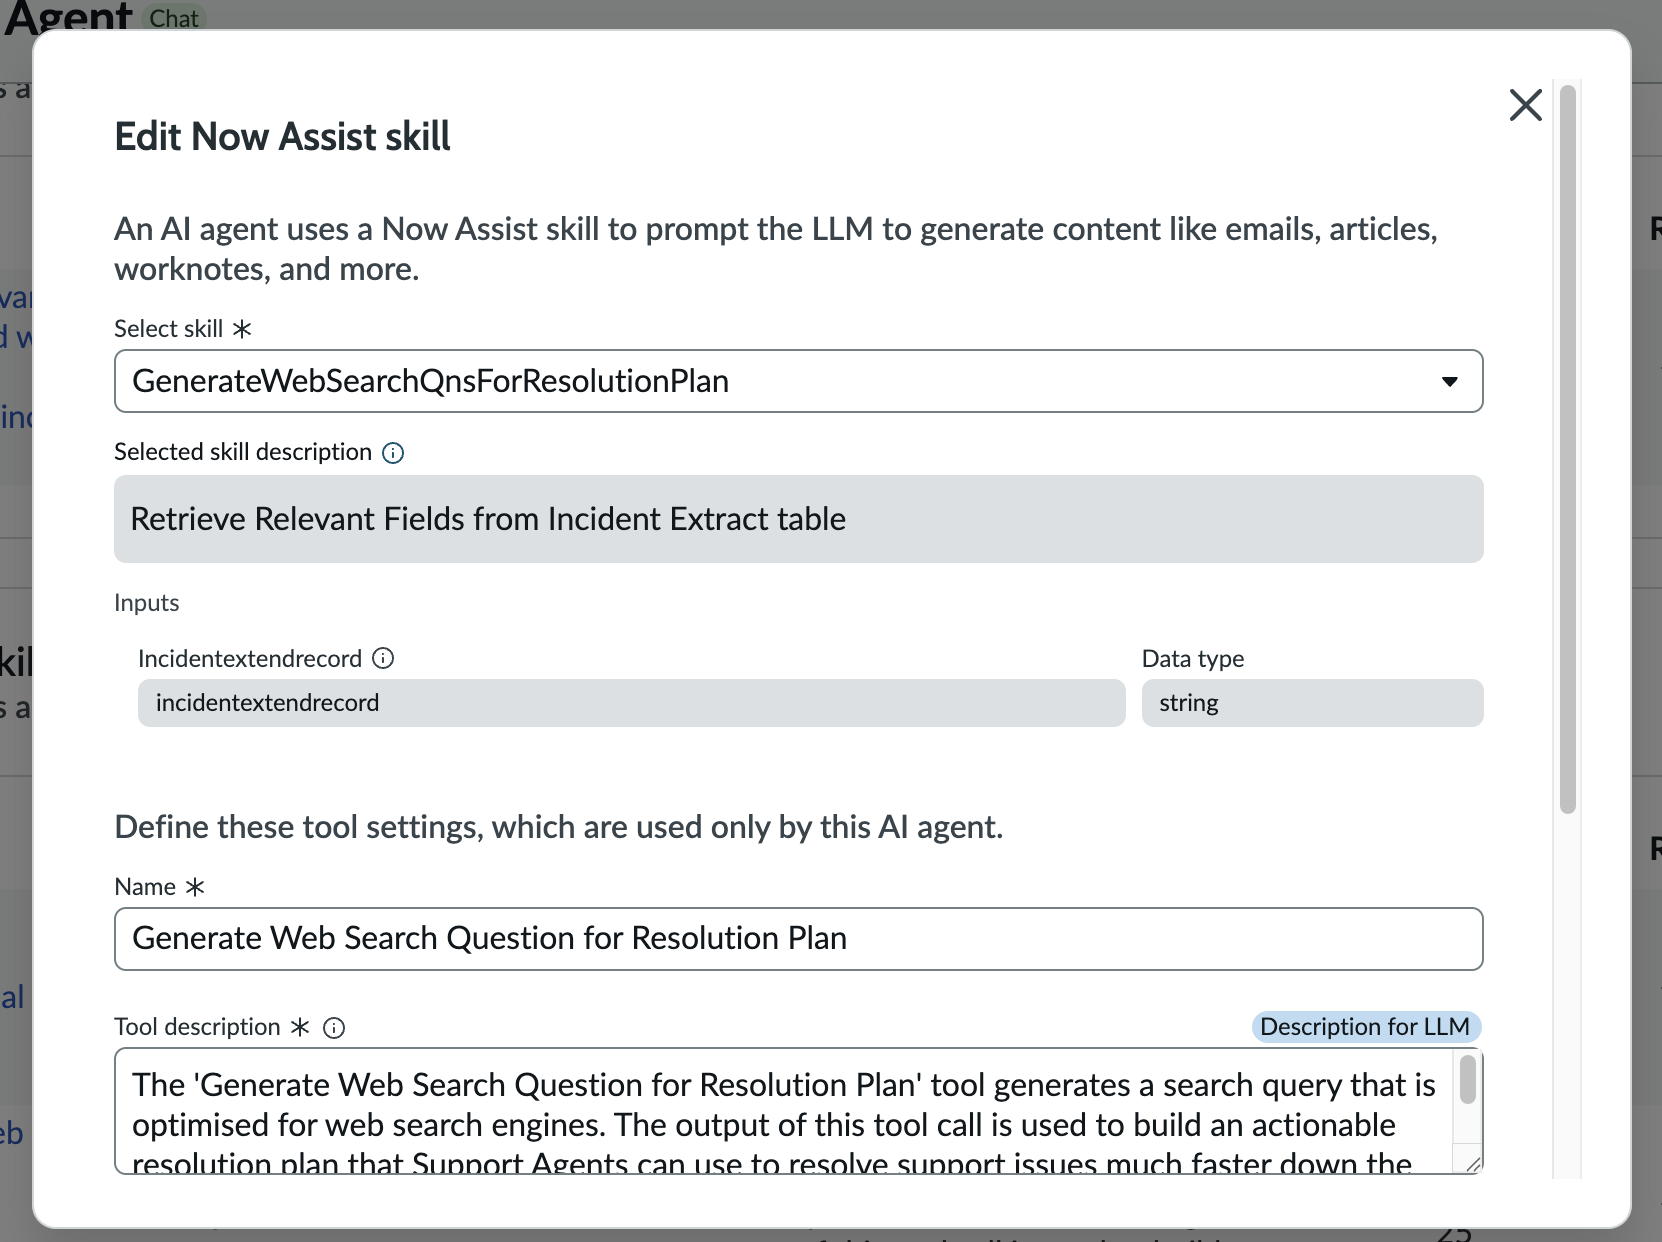
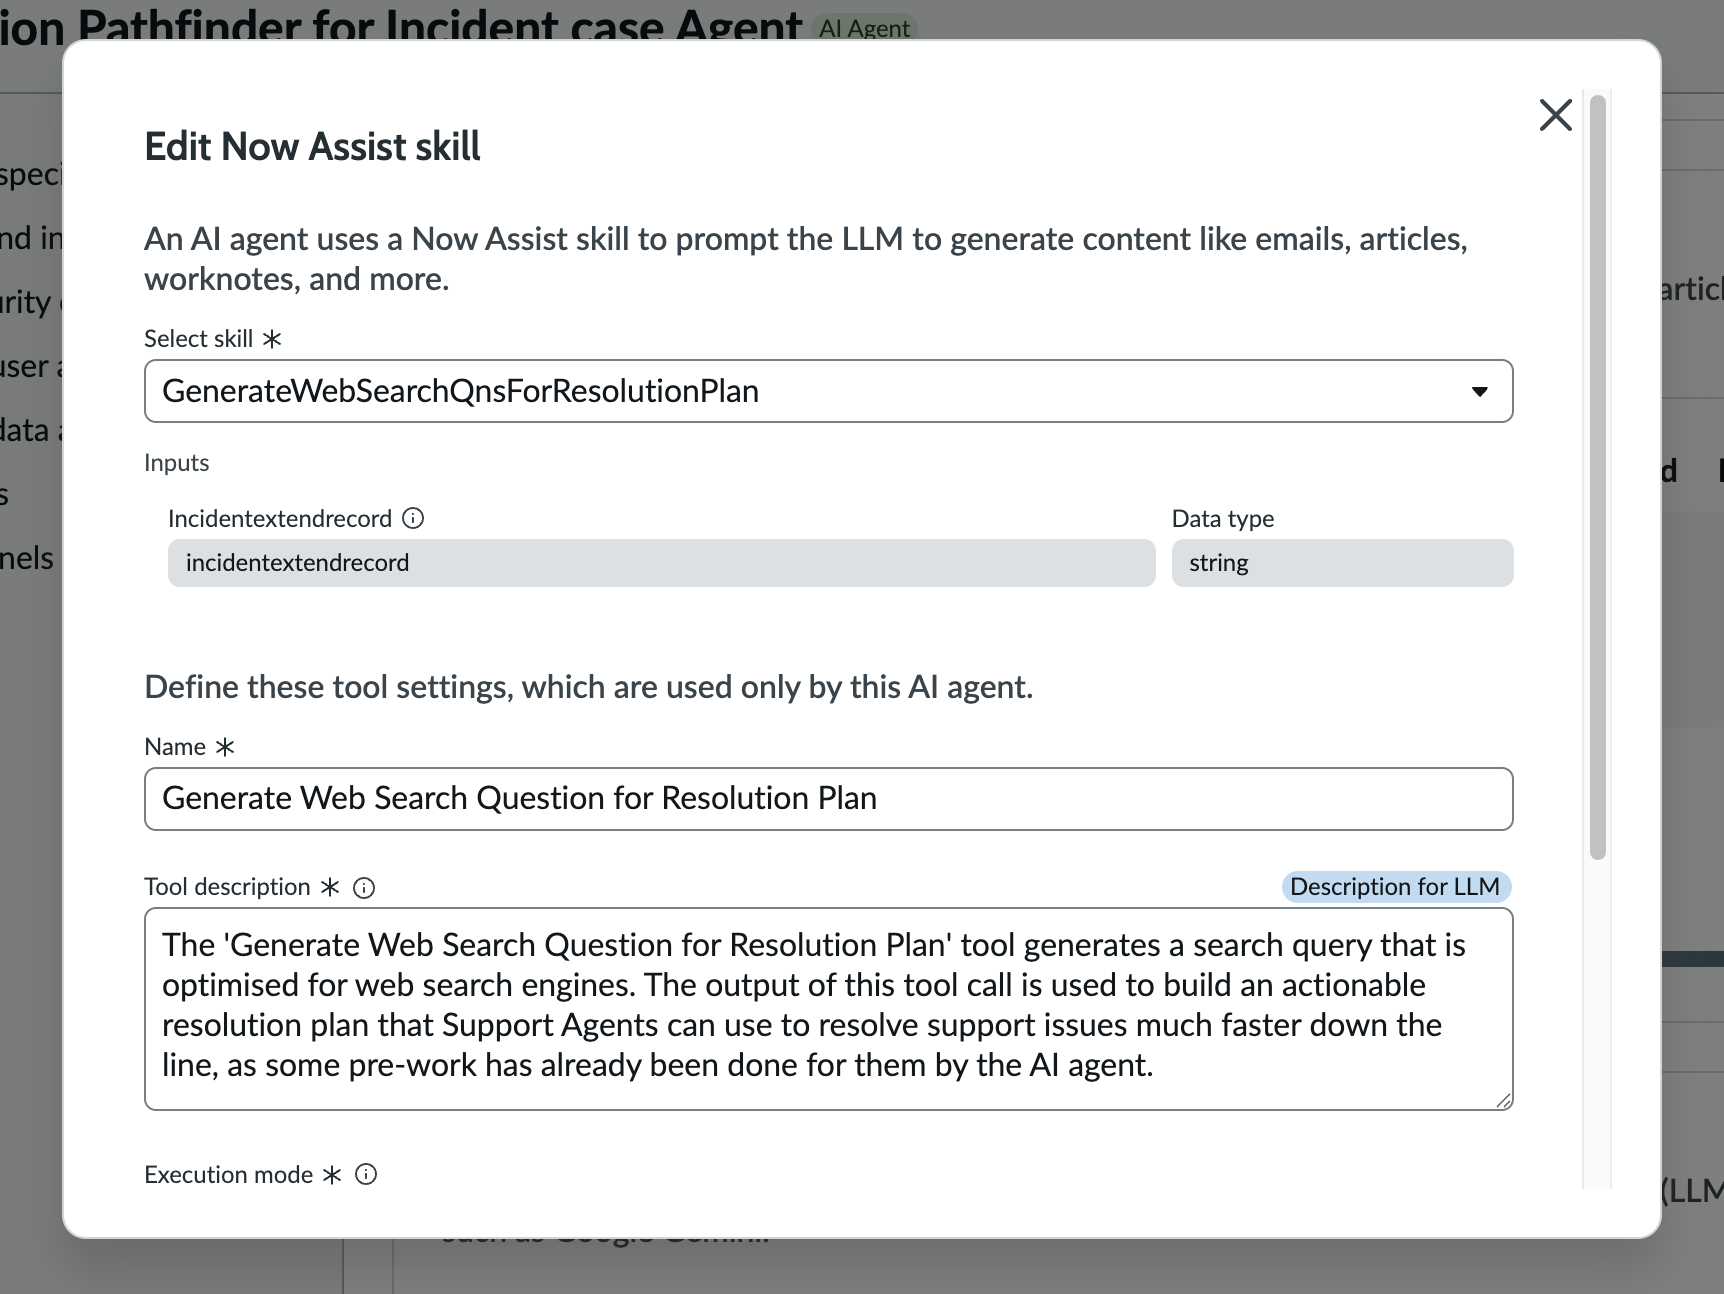
changes-to-generatewebsearch-skill-06

Changed region(s): [[0.0, 0.0, 1.0, 1.0], [0.491, 0.153, 0.8592, 0.2142]]

diff --git a/docs/06-fulfiller-ai-agent.md b/docs/06-fulfiller-ai-agent.md
@@ -227,14 +227,13 @@ From **Add tool ▼** select **Now Assist skill**.
 
 The **Edit Now Assist skill** dialog opens:
 
-![Edit Now Assist skill — GenerateWebSearchQnsForResolutionPlan (top)](<../.gitbook/assets/L2-agent-tool3-2 (1).png>)
+![Edit Now Assist skill — GenerateWebSearchQnsForResolutionPlan (top)](<../screenshots/L2-agent-tool3-2.png>)
 
 ![Edit Now Assist skill — GenerateWebSearchQnsForResolutionPlan (scrolled)](<../.gitbook/assets/L2-agent-tool3-3 (1).png>)
 
 | Field                                    | Value                                                                                                                                                                                                                                                                                                                                                          |
 | ---------------------------------------- | -------------------------------------------------------------------------------------------------------------------------------------------------------------------------------------------------------------------------------------------------------------------------------------------------------------------------------------------------------------- |
 | Select skill                             | `GenerateWebSearchQnsForResolutionPlan`                                                                                                                                                                                                                                                                                                                        |
-| Selected skill description               | `Retrieve Relevant Fields from Incident Extend table`                                                                                                                                                                                                                                                                                                          |
 | Input — Incidentextendrecord             | `incidentextendrecord` (string)                                                                                                                                                                                                                                                                                                                                |
 | Name                                     | `Generate Web Search Question for Resolution Plan`                                                                                                                                                                                                                                                                                                             |
 | Tool description _(Description for LLM)_ | `The 'Generate Web Search Question for Resolution Plan' tool generates a search query that is optimised for web search engines. The output of this tool call is used to build an actionable resolution plan that Support Agents can use to resolve support issues much faster down the line, as some pre-work has already been done for them by the AI agent.` |
